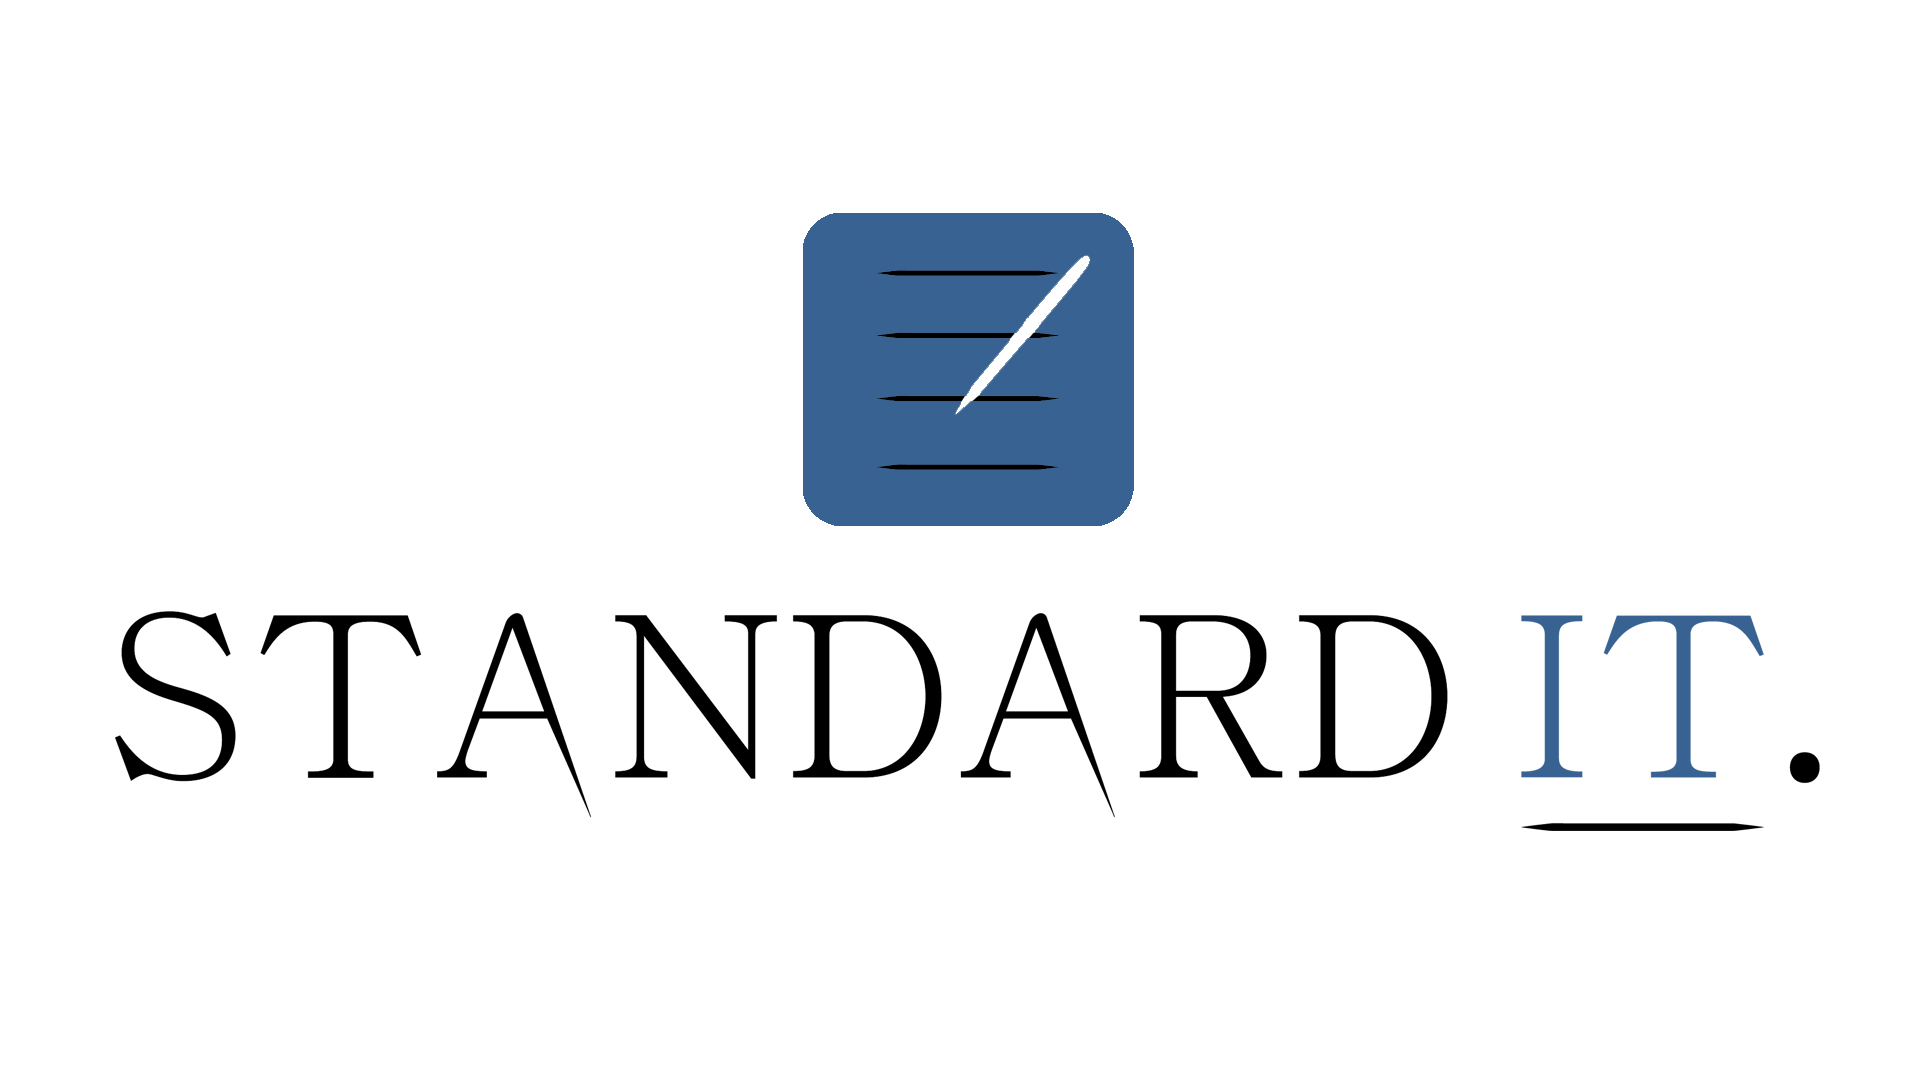
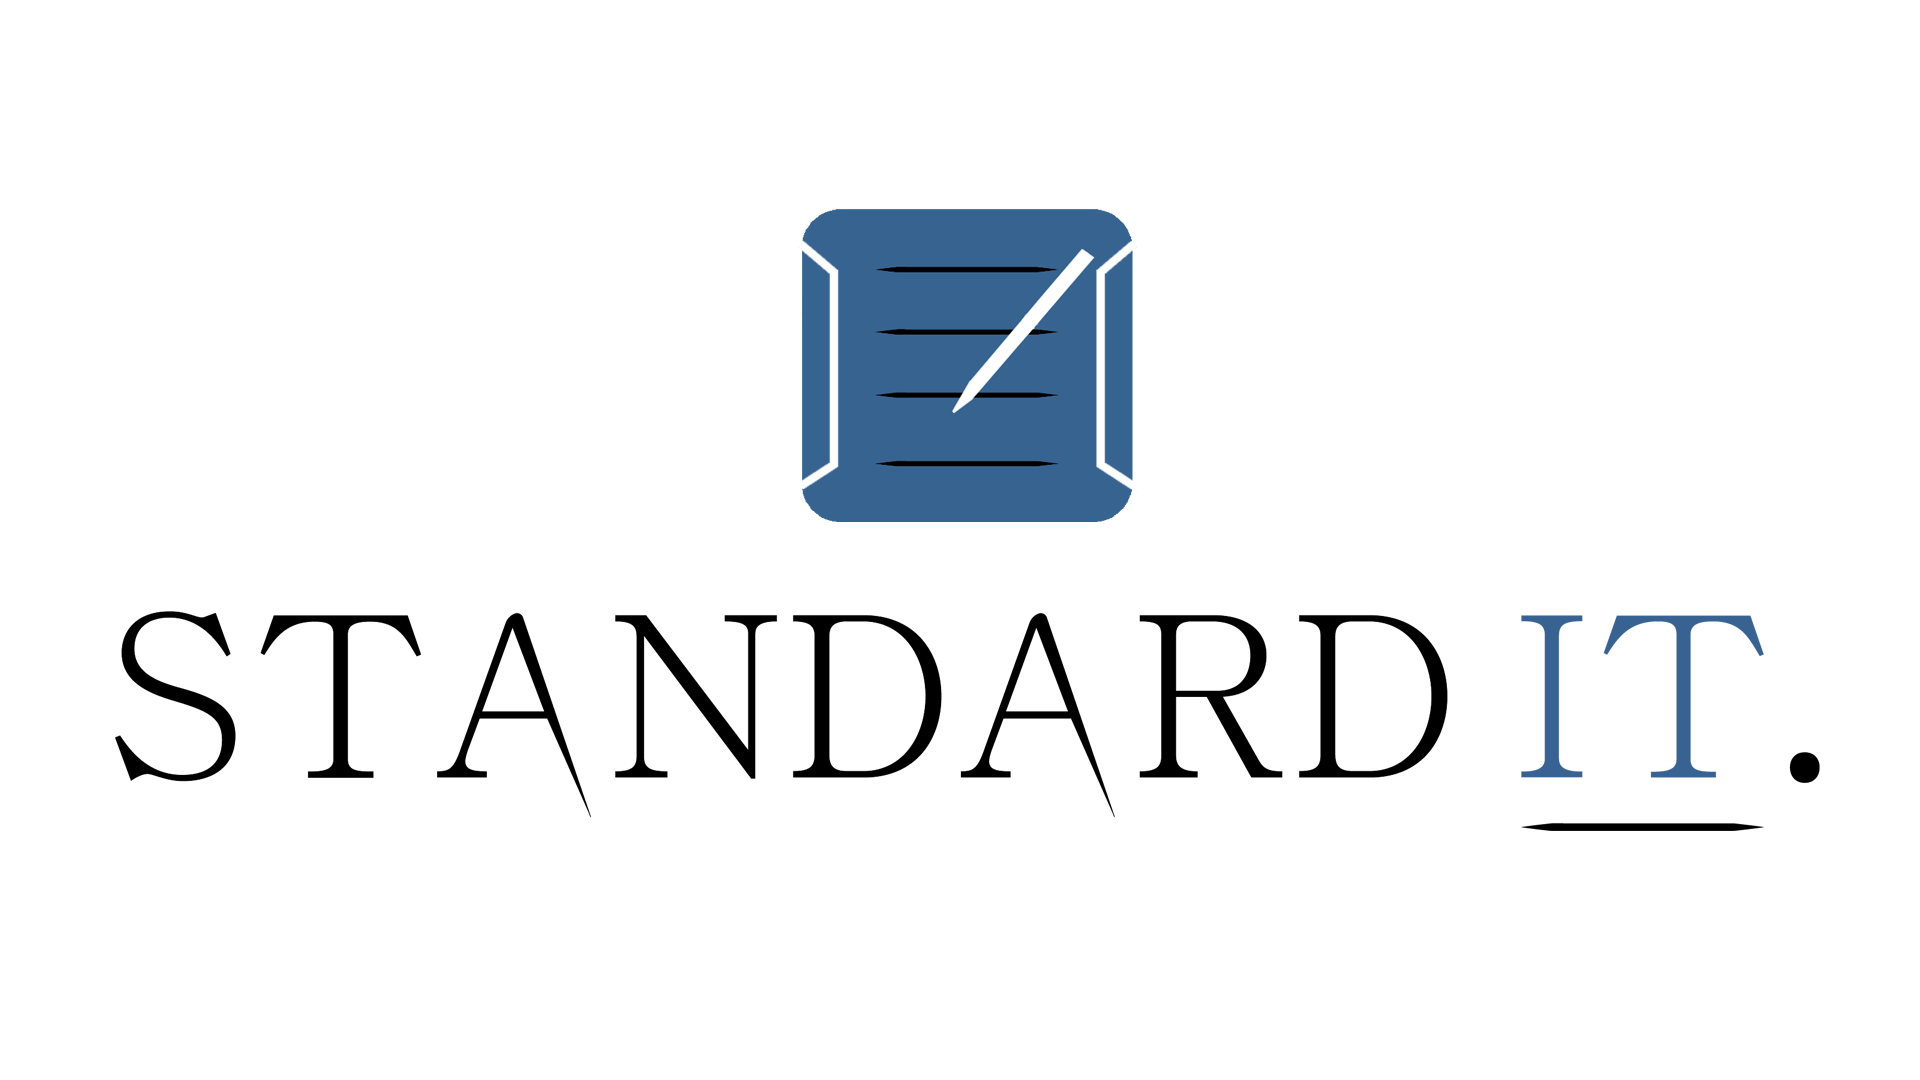
release 0.9.2

Changed region(s): [[0.4375, 0.2139, 0.5938, 0.4889], [0.4062, 0.2139, 0.4375, 0.4583], [0.4375, 0.1833, 0.5625, 0.2139]]

diff --git a/src/components/Formulaire.js b/src/components/Formulaire.js
@@ -23,6 +23,7 @@ const Formulaire = (props) => {
 
 
     const onChangeMention = (e)=>{
+        console.log("Changement de la mention pour = " + e);
         // Set la mention pour reactualisation et clear l'affichage
         setMention(e);
         onHandleChange();
@@ -45,6 +46,7 @@ const Formulaire = (props) => {
     // Process de normalisation
 
     const onClickNormalize = () => {
+        console.log("clic normaliser")
        const categorySelected = selecteurRef.current.value;
         const titre = inputTitleRef.current.value;
 
@@ -71,21 +73,16 @@ const Formulaire = (props) => {
 
         //Traitement du format date 
         var locDateDuJour = new Date(),
-            locAnnee = (locDateDuJour.getFullYear()),
-            locMois = (locDateDuJour.getMonth() + 1),
-            locJour = (locDateDuJour.getDate());
+            year = (locDateDuJour.getFullYear()),
+            tempMonth = (locDateDuJour.getMonth() + 1),
+            tempDay = (locDateDuJour.getDate());
 
-        // traitement  du zero pour les dates inferieurs a 10
-        if (locMois < 10) {
-            locMois = ('0' + locMois);
-        };
-
-        if (locJour < 10) {
-          locJour = ('0' + locJour);
-        };
+        // traitement format 2 digits
+        var finalMonth =(tempMonth < 10 ? "0" + tempMonth : tempMonth);
+        var finalDay =(tempDay < 10 ? "0" + tempDay : tempDay);
 
         // simplification de la date
-        var locDateFinale = ('' + locAnnee + locMois + locJour);
+        var locDateFinale = ('' +   year + finalMonth + finalDay);
 
 
         //Ecriture résultat finale
@@ -95,7 +92,7 @@ const Formulaire = (props) => {
         //Copie dans le clipboard 
         var toCopy = textResult;
         navigator.clipboard.writeText(toCopy);
-        
+        console.log("Text copié dans le clipboard = " + toCopy);
         //Set les STATES pour modifier l'affichage
         setResultValue([textResult,"divResultVisible"]);
         
@@ -116,12 +113,15 @@ const Formulaire = (props) => {
     //EFFACER
     const onClickClear = () => {
         //clear uniquement si necessaire
-
+        console.log("Clic Effacer")
         if (inputTitleRef.current.value !== "" || resultValue[1] !== "divResultHidden") {
             //efface le contenu de l'input
             inputTitleRef.current.value="";
             //set les states pour reactualiser l'affichage
+            console.log("Effacement effectué")
             setResultValue(["","divResultHidden"]);
+        }else{
+            console.log("Rien à effacer")
         }
         
         

diff --git a/src/components/formulaire.css b/src/components/formulaire.css
@@ -5,14 +5,14 @@
     --colorTheme3:whitesmoke;
 
     /* Mention */
-    --widthDivMention:200px;
+    --widthDivMention:300px;
     --borderRadiusDivMention:5px;
     --marginBottomDivMention:20px;
     --NPColor:white;
     --DRColor:rgb(244, 231, 115);
-    --CDColor:rgb(99, 244, 171);
-    --SDColor:rgb(245, 118, 96);
-    
+    --DR-SFColor:rgb(141, 230, 168);
+    --SColor:rgb(248, 132, 111);
+    --S-SFColor:rgb(74, 74, 74);
 }
 
 /* input du titre */
@@ -78,6 +78,7 @@ button.btnClear{
 /* Les div de chaque mention */
 div.localDivMentionClass{
     display: inline;
+    margin-right: 10px;
 }
 
 
@@ -100,18 +101,30 @@ div.globalDivMentionClassDR{
     margin-bottom: var(--marginBottomDivMention);
 }
 
-div.globalDivMentionClassCD{
-    background-color:var(--CDColor);
+div.globalDivMentionClassDR-SF{
+    background-color:var(--DR-SFColor);
     width: var(--widthDivMention);
     border-radius: var(--borderRadiusDivMention);
     margin: auto;
     margin-bottom: var(--marginBottomDivMention);
 }
 
-div.globalDivMentionClassSD{
-    background-color:var(--SDColor);
+
+
+div.globalDivMentionClassS{
+    background-color:var(--SColor);
     width: var(--widthDivMention);
     border-radius: var(--borderRadiusDivMention);
     margin: auto;
     margin-bottom: var(--marginBottomDivMention);
+   
+}
+
+div.globalDivMentionClassS-SF{
+    background-color:var(--S-SFColor);
+    width: var(--widthDivMention);
+    border-radius: var(--borderRadiusDivMention);
+    margin: auto;
+    margin-bottom: var(--marginBottomDivMention);
+    color: white;
 }

diff --git a/src/components/Result.js b/src/components/Result.js
@@ -10,7 +10,7 @@ const Result = (props) => {
         <div className={props.divResultClass}>
             <p className='nomNormalise'>NORMALISÉ :</p>
             <p  className="resultat">{props.textToDisplay}</p>
-            <p className="pCopyNotify">Copié !</p>
+            <p className="pCopyNotify">COPIÉ !</p>
         </div>
     );
 };

diff --git a/src/components/Footer.js b/src/components/Footer.js
@@ -1,11 +1,12 @@
 import React from 'react';
 import './Footer.css';
 
+
 const Footer = () => {
     
     return (
         <div className='footer'>
-            <p>EmmTarSystem 2022-12 / Bêta Release: 0.9.0</p>
+            <p>EmmTarSystem 2022-12 / Bêta Release: 0.9.1</p>
         </div>
     );
 };

diff --git a/src/components/result.css b/src/components/result.css
@@ -28,9 +28,9 @@ p.nomNormalise{
 
 
 p.pCopyNotify{
-    color: #d50100;
+    color: var(--colorTheme2);
     display: inline;
-    font-size: 25px;
+    font-size: 18px;
 }
 
 

diff --git a/README.md b/README.md
@@ -1,4 +1,6 @@
 Standard-it.
+
+
 Release 0.9.0
 
 Correction :
@@ -10,3 +12,12 @@ Nouveauté:
 Mise ne place bdd json ( categories / organisme / nomenclature)
 Cookies organisme
 Mise en place mention classification
+
+Release 0.9.1
+
+Correction :
+Simplification code format date 2 digits
+Mise en place log suivit / dépannage
+Modification nuancier couleur mention
+Modif logo V3
+Modification system classification (nom / couleur /mise ne page)
